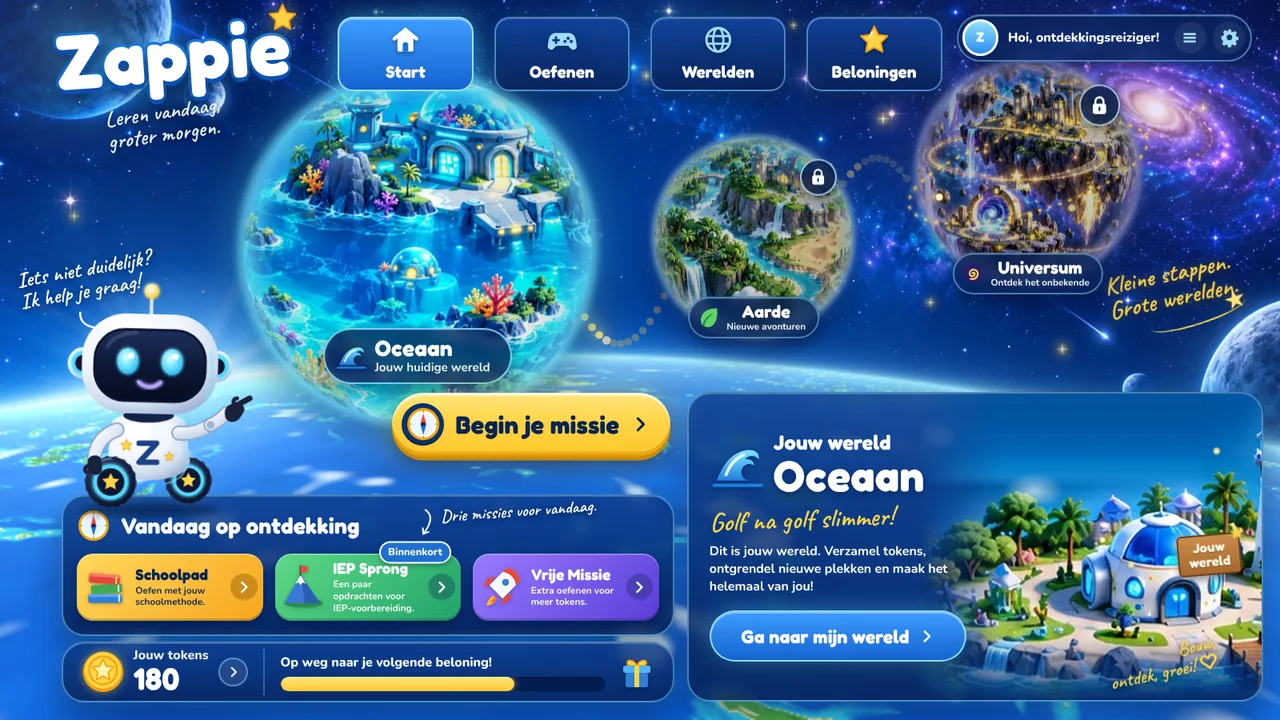
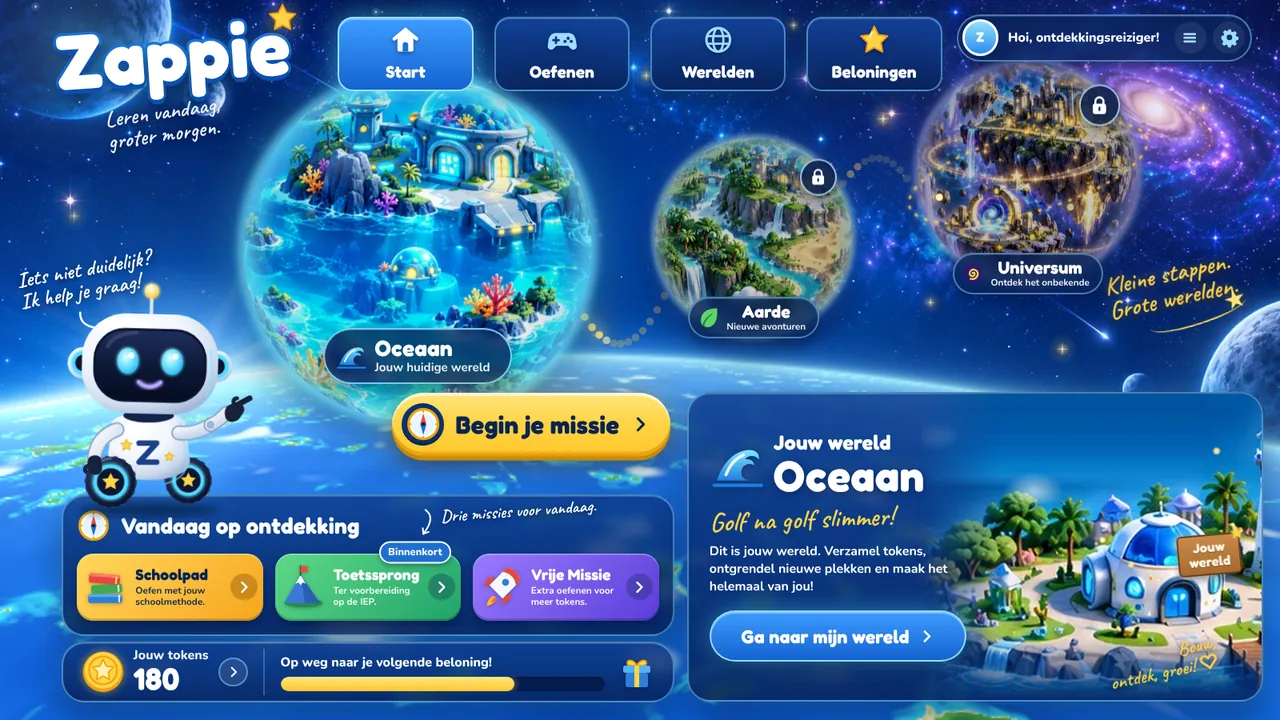
Zappie: IEP Sprong heet nu Toetssprong
Keuze eigenaar (13 oktober 2026). "IEP" is de naam van een toets van Bureau
ICE en hoort niet in de naam van een eigen onderdeel (zie JURIDISCH.md). De
kaart op de startpagina heet nu "Toetssprong", met eronder "Ter
voorbereiding op de IEP."; Zappie zegt "Toetssprong komt er binnenkort
aan." De kaart blijft verder hetzelfde (Binnenkort, zelfde plek en icoon).

Schermcontract volgt de nieuwe naam (met een notitie dat het eerst IEP
Sprong heette). De schermafbeelding op de homepagina is opnieuw gemaakt.

Claude-Session: https://claude.ai/code/session_01WnyrLUpKM7GTe9NMcMPq2s

diff --git a/src/components/zappie/Startscherm.tsx b/src/components/zappie/Startscherm.tsx
@@ -11,7 +11,7 @@
  * - de werelden zweven, elk op een eigen tempo; het gouden ontdekpad laat zien
  *   hoeveel missies er in de huidige wereld klaar zijn (één lichtje per missie);
  * - Zappie rolt binnen, zwaait en wijst daarna naar "Begin je missie". Een tik
- *   op hem, op een dichte wereld of op IEP Sprong en hij zegt iets;
+ *   op hem, op een dichte wereld of op Toetssprong en hij zegt iets;
  * - na een missie (fase 5): de tokens tellen op, een gouden lichtje vliegt naar
  *   de wereld, die licht even op, en het nieuwe lichtje op het pad gaat aan.
  *   Komt er een plek vrij in Jouw wereld, dan valt daar een gouden lichtstraal.
@@ -348,13 +348,13 @@ export function Startscherm() {
               type="button"
               className="zp-kaart"
               data-kleur="groen"
-              onClick={() => zeg({ tekst: "IEP Sprong komt er binnenkort aan. Kies nu Schoolpad of Vrije Missie!", stemming: "kijk" })}
+              onClick={() => zeg({ tekst: "Toetssprong komt er binnenkort aan. Kies nu Schoolpad of Vrije Missie!", stemming: "kijk" })}
             >
               <span className="zp-binnenkort">Binnenkort</span>
               <IcoonBerg className="zp-kaart-beeld" />
               <span className="zp-kaart-tekst">
-                <span className="zp-kaart-naam zp-titel">IEP Sprong</span>
-                <span className="zp-kaart-zin">Een paar opdrachten voor IEP-voorbereiding.</span>
+                <span className="zp-kaart-naam zp-titel">Toetssprong</span>
+                <span className="zp-kaart-zin">Ter voorbereiding op de IEP.</span>
               </span>
               <span className="zp-kaart-pijl" aria-hidden="true">
                 <IcoonPijl className="size-[60%]" />

diff --git a/src/components/zappie/Iconen.tsx b/src/components/zappie/Iconen.tsx
@@ -232,7 +232,7 @@ export function IcoonBoeken({ className }: P) {
   );
 }
 
-/** Een berg met een vlag: IEP Sprong. */
+/** Een berg met een vlag: Toetssprong. */
 export function IcoonBerg({ className }: P) {
   return (
     <svg viewBox="0 0 64 64" className={className} aria-hidden="true">

diff --git a/ZAPPIE.md b/ZAPPIE.md
@@ -85,7 +85,7 @@ nieuwe teksten.
 | Menu links (telefoon: onderaan) | Vier losse knoppen bovenaan (telefoon: nog steeds onderaan) |
 | "Wereld" in het menu | "Werelden" |
 | "Start oefenen" | "Begin je missie", met een lichtstreep en een korte glans bij het klikken |
-| "Vandaag oefenen" met Rekenen, Taal (Binnenkort), Denken (Binnenkort) | "Vandaag op ontdekking" met Schoolpad, IEP Sprong (Binnenkort) en Vrije Missie |
+| "Vandaag oefenen" met Rekenen, Taal (Binnenkort), Denken (Binnenkort) | "Vandaag op ontdekking" met Schoolpad, Toetssprong (Binnenkort; heette eerst IEP Sprong) en Vrije Missie |
 | Tegel Rekenen naar `/oefenen/rekenen` | Menuknop Oefenen naar `/rekenen` (het rekenscherm van nieuwe-layout); Schoolpad naar `/oefenen/rekenen/methode` |
 | — | Menuknopje naast het tandwiel naar Meer (`/meer`), zoals het ronde knopje van nieuwe-layout |
 | Zappie-punten | Tokens, met een strook "Op weg naar je volgende beloning!" |
@@ -139,10 +139,11 @@ nieuwe teksten.
   we zo dicht bij de bol kijken, schoof het land dan zichtbaar snel voorbij.
   Nu één rondje per 30 minuten (`OMLOOP_SECONDEN` in `DraaiendeAarde.tsx`); dat
   is één getal om aan te passen.
-- **IEP Sprong** staat erop met "Binnenkort": er is nog geen inhoud voor. Een
-  tik geeft een uitleg van Zappie. *Let op: "IEP" is de naam van een toets van
-  een ander bedrijf; laat juridisch nakijken of die naam zo gebruikt mag
-  worden.*
+- **Toetssprong** (heette eerst IEP Sprong) staat erop met "Binnenkort": er
+  is nog geen inhoud voor. Een tik geeft een uitleg van Zappie. Hernoemd op
+  verzoek van de eigenaar (13 oktober 2026): "IEP" is de naam van een toets van
+  een ander bedrijf en hoort niet in de naam van een eigen onderdeel; eronder
+  staat nu "ter voorbereiding op de IEP" (zie JURIDISCH.md).
 - **Oefenen** in het menu gaat naar het rekenscherm van nieuwe-layout
   (`/rekenen`), niet naar een nieuw Zappie-scherm (keuze eigenaar).
 - **Op telefoon** zit de tokenstrook onder de vouw. Het lichtje vliegt dan van
@@ -160,7 +161,7 @@ nieuwe teksten.
   niets te kiezen.
 - De missies gebruiken nog niet de leerdoelen uit het beheer; de sommen worden
   in het geheugen gemaakt (`src/lib/zappie/missie.ts`).
-- IEP Sprong staat erop met "Binnenkort".
+- Toetssprong staat erop met "Binnenkort".
 - Zappie praat nog niet hardop; de golf beweegt op een vaste animatie.
 
 ## Beelden

diff --git a/JURIDISCH.md b/JURIDISCH.md
@@ -41,8 +41,9 @@ jurist te gaan, geen juridisch advies.
 - **"IEP Sprong" als productnaam.** "IEP" in de naam van een eigen onderdeel
   is iets anders dan verwijzen: het kan lezen als een product van Bureau ICE.
   Advies: hernoemen, bijvoorbeeld "Doorstroom Sprong" of "Toetssprong", met
-  een zin als "ter voorbereiding op de IEP". Niet aangepast; dat beslist de
-  eigenaar.
+  een zin als "ter voorbereiding op de IEP". Op 13 oktober 2026 op verzoek
+  van de eigenaar hernoemd naar "Toetssprong", met "ter voorbereiding op de
+  IEP" eronder.
 - **De naam Zappie.** NPO heeft het jeugdmerk "Zapp", voor kinderen en in
   dezelfde hoek (onderwijs en entertainment). Laat bij het BOIP en EUIPO
   nagaan of "Zappie" vrij is en of het te veel lijkt.
